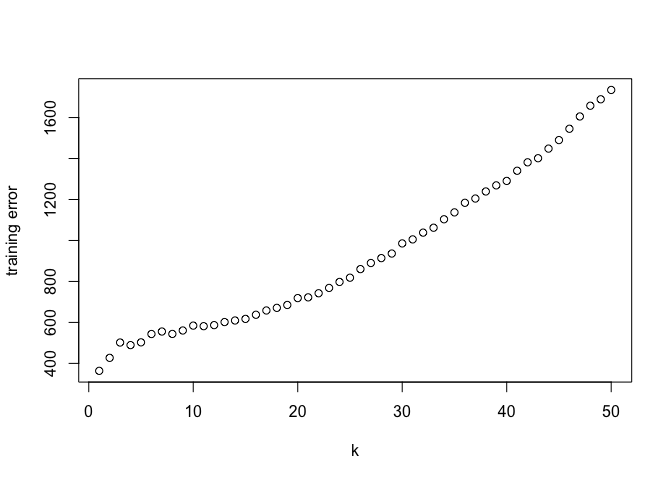
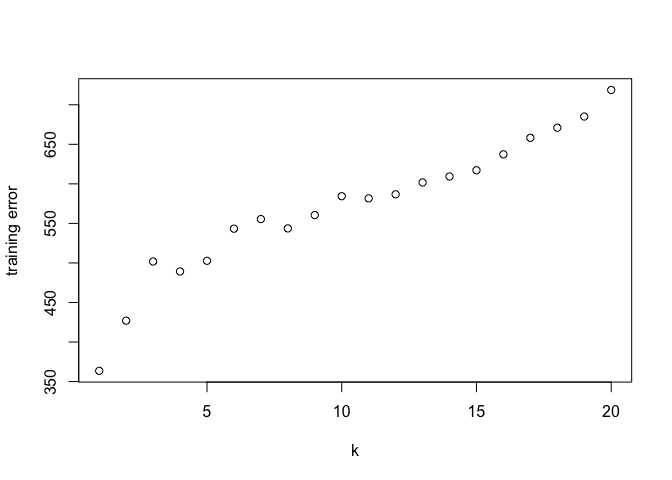
hw4

diff --git a/Homework_4/Homework_4.md b/Homework_4/Homework_4.md
@@ -156,19 +156,19 @@ loss_squared_error <- function(y, yhat)
 error <- function(y, yhat, loss=loss_squared_error)
   mean(loss(y, yhat))
 
-train_error <- rep(NA, 50)
-for (i in 1:50){
+train_error <- rep(NA, 20)
+for (i in 1:20){
   yhat_train <- nadaraya_watson(mcycle_train$accel, x_train, x_train, kernel_k_nearest_neighbors, knn = i)
   train_error[i] <- error(mcycle_train$accel, yhat_train, loss = loss_squared_error)
 }
 
-plot(seq(1:50),train_error, xlab = "k", ylab = "training error")
+plot(seq(1:20),train_error, xlab = "k", ylab = "training error")
 ```
 
 ![](Homework_4_files/figure-gfm/unnamed-chunk-11-1.png)<!-- -->
 
 ``` r
-y = mcycle_train$times
+y = mcycle_train$accel
 x <- x_train
 
 ## AIC
@@ -191,28 +191,24 @@ yhat <- nadaraya_watson(y, x, x,
   kernel_epanechnikov, lambda=5)
 
 ## view kernel (smoother) matrix
-matrix_image(attr(yhat, 'k'))
-```
+# matrix_image(attr(yhat, 'k'))
 
-![](Homework_4_files/figure-gfm/unnamed-chunk-12-1.png)<!-- -->
-
-``` r
 ## compute effective degrees of freedom
 edf <- effective_df(y, x, kernel_epanechnikov, lambda=5)
 aic(y, yhat, edf)
 ```
 
-    ## [1] 0.6409796
+    ## [1] 722.7298
 
 ``` r
 bic(y, yhat, edf)
 ```
 
-    ## [1] 0.8627817
+    ## [1] 722.9516
 
 ``` r
-aic_error <- rep(NA, 50)
-for(i in 1:50){
+aic_error <- rep(NA, 20)
+for(i in 1:20){
   yhat_train <- nadaraya_watson(mcycle_train$accel, x_train, x_train,kernel_k_nearest_neighbors, knn=i)
   edf <- effective_df(y, x, kernel_k_nearest_neighbors, knn=i)
   aic_error[i] <-  aic(y, yhat_train, edf)
@@ -220,23 +216,19 @@ for(i in 1:50){
 print(aic_error)
 ```
 
-    ##  [1] 5091.475 4271.287 4337.480 4012.961 3836.631 3928.073 3992.422 3991.655
-    ##  [9] 3956.766 3856.233 3757.818 3743.931 3721.539 3614.656 3530.737 3509.427
-    ## [17] 3487.257 3426.842 3365.450 3312.003 3217.977 3249.191 3156.968 3190.671
-    ## [25] 3156.539 3163.198 3184.374 3160.830 3154.303 3155.732 3136.818 3163.030
-    ## [33] 3231.683 3271.446 3297.095 3355.372 3382.827 3428.669 3467.208 3466.856
-    ## [41] 3507.944 3548.435 3596.819 3637.390 3663.047 3707.719 3779.969 3818.837
-    ## [49] 3857.116 3920.321
+    ##  [1] 365.0155 427.9374 502.4882 489.7461 503.1019 543.6581 555.7789 543.9533
+    ##  [9] 560.7425 584.5709 581.8404 586.9614 601.9214 609.4732 617.3089 637.4574
+    ## [17] 658.3733 671.1092 685.2458 718.8412
 
 ``` r
-plot(seq(1:50), aic_error, xlab = 'k',ylab = 'AIC')
+plot(seq(1:20), aic_error, xlab = 'k',ylab = 'AIC')
 ```
 
 ![](Homework_4_files/figure-gfm/unnamed-chunk-13-1.png)<!-- -->
 
 ``` r
-bic_error <- rep(NA, 50)
-for(i in 1:50){
+bic_error <- rep(NA, 20)
+for(i in 1:20){
   yhat_train <- nadaraya_watson(mcycle_train$accel, x_train, x_train,kernel_k_nearest_neighbors, knn=i)
   edf <- effective_df(y, x, kernel_k_nearest_neighbors, knn=i)
   bic_error[i] <- bic(y, yhat_train, edf)
@@ -244,30 +236,26 @@ for(i in 1:50){
 print(bic_error)
 ```
 
-    ##  [1] 5093.377 4272.499 4338.322 4013.605 3837.152 3928.507 3992.795 3991.981
-    ##  [9] 3957.056 3856.494 3758.054 3744.148 3721.740 3614.843 3530.910 3509.589
-    ## [17] 3487.411 3426.986 3365.587 3312.133 3218.101 3249.310 3157.082 3190.780
-    ## [25] 3156.643 3163.298 3184.471 3160.923 3154.393 3155.818 3136.902 3163.111
-    ## [33] 3231.762 3271.522 3297.169 3355.445 3382.897 3428.738 3467.275 3466.921
-    ## [41] 3508.008 3548.497 3596.879 3637.449 3663.105 3707.775 3780.024 3818.891
-    ## [49] 3857.170 3920.373
+    ##  [1] 366.9173 429.1488 503.3306 490.3909 503.6229 544.0923 556.1511 544.2790
+    ##  [9] 561.0320 584.8314 582.0772 587.1785 602.1218 609.6593 617.4826 637.6202
+    ## [17] 658.5265 671.2539 685.3829 718.9715
 
 ``` r
-plot(seq(1:50), bic_error, xlab = 'k',ylab = 'BIC')
+plot(seq(1:20), bic_error, xlab = 'k',ylab = 'BIC')
 ```
 
 ![](Homework_4_files/figure-gfm/unnamed-chunk-14-1.png)<!-- -->
 
 ``` r
-valid_error <- rep(NA, 50)
-for(i in 1:50){
+valid_error <- rep(NA, 20)
+for(i in 1:20){
   yhat_valid <- nadaraya_watson(mcycle_test$accel, x_valid, x_valid,kernel_k_nearest_neighbors, knn=i)
   valid_error[i] <-  error(mcycle_test$accel,yhat_valid)
 }
 
 #Error
 #training error
-plot(seq(1:50), valid_error, xlab = 'k', ylab = 'testing error')
+plot(seq(1:20), valid_error, xlab = 'k', ylab = 'testing error')
 ```
 
 ![](Homework_4_files/figure-gfm/unnamed-chunk-15-1.png)<!-- -->
@@ -366,9 +354,9 @@ cvknnreg <- function(kNN = 10, flds=mcycle_flds) {
   return(cverr)
 }
 
-## Compute 5-fold CV for kNN = 1:50
-cverrs <- sapply(1:50, cvknnreg)
-print(cverrs) ## rows are k-folds (1:5), cols are kNN (1:50)
+## Compute 5-fold CV for kNN = 1:20
+cverrs <- sapply(1:20, cvknnreg)
+print(cverrs) ## rows are k-folds (1:5), cols are kNN (1:20)
 ```
 
     ##           [,1]      [,2]     [,3]     [,4]     [,5]     [,6]     [,7]     [,8]
@@ -383,36 +371,12 @@ print(cverrs) ## rows are k-folds (1:5), cols are kNN (1:50)
     ## [3,] 647.5598 657.6890 734.9424 688.5695 682.5284 684.5491 729.4468 753.2387
     ## [4,] 797.8092 770.4313 815.1868 794.5416 789.8681 728.4384 717.4297 745.2519
     ## [5,] 498.3470 531.5351 500.5685 542.4821 532.3482 497.1585 529.9872 586.2051
-    ##         [,17]    [,18]    [,19]    [,20]    [,21]     [,22]     [,23]     [,24]
-    ## [1,] 354.1053 347.2541 384.5101 394.2038 441.4549  472.8756  498.2082  536.6689
-    ## [2,] 740.5859 799.7265 870.8813 912.4776 980.3243 1018.9970 1013.8565 1057.1217
-    ## [3,] 789.3431 759.4425 753.5538 778.6373 846.6821  857.7259  937.7607  942.8272
-    ## [4,] 737.8144 734.2257 743.0353 752.7634 783.9099  797.1429  803.8569  816.7285
-    ## [5,] 588.0262 601.9674 602.1801 618.6925 691.5039  705.0992  713.9096  833.4163
-    ##          [,25]     [,26]     [,27]     [,28]     [,29]     [,30]     [,31]
-    ## [1,]  537.5714  589.7705  575.4077  619.2707  658.6125  690.0895  684.0299
-    ## [2,] 1148.1801 1197.8311 1212.0159 1240.3222 1287.9730 1336.3738 1337.3155
-    ## [3,]  937.5117  935.4956  956.6576  952.6449 1053.1621 1106.1121 1110.2986
-    ## [4,]  808.2498  820.6746  826.2055  849.0976  864.5926  873.0770  881.2134
-    ## [5,]  868.2132  874.9318  904.0628  972.2048  983.3825 1005.0191 1009.8073
-    ##          [,32]     [,33]     [,34]     [,35]     [,36]     [,37]     [,38]
-    ## [1,]  711.6710  741.5186  756.7934  769.2446  846.4486  851.4993  855.1789
-    ## [2,] 1358.9550 1353.9986 1405.0661 1469.4552 1518.7744 1510.8004 1492.8121
-    ## [3,] 1125.5663 1138.0265 1150.2618 1189.9300 1202.4104 1232.5070 1255.7036
-    ## [4,]  950.0801  953.9638  999.2605 1013.6289 1051.1767 1096.3494 1128.5114
-    ## [5,] 1009.2723 1067.8505 1068.6263 1104.7766 1114.6448 1142.6521 1162.3306
-    ##          [,39]     [,40]     [,41]     [,42]     [,43]    [,44]    [,45]
-    ## [1,]  926.3261  941.2742  959.6788  965.4947  993.8559 1014.526 1067.428
-    ## [2,] 1576.1370 1630.4905 1666.1896 1676.6185 1724.6503 1772.390 1807.521
-    ## [3,] 1300.8959 1325.8375 1344.4075 1357.8994 1387.0314 1416.609 1465.042
-    ## [4,] 1133.5681 1141.7609 1165.9123 1193.7147 1201.1609 1200.754 1258.704
-    ## [5,] 1245.3851 1245.6822 1269.7360 1310.8467 1320.2260 1343.473 1413.952
-    ##         [,46]    [,47]    [,48]    [,49]    [,50]
-    ## [1,] 1125.491 1165.090 1185.334 1248.291 1314.505
-    ## [2,] 1841.461 1927.744 2004.886 2028.630 2076.517
-    ## [3,] 1512.596 1543.608 1588.178 1625.597 1658.267
-    ## [4,] 1289.186 1311.340 1354.635 1453.068 1506.978
-    ## [5,] 1423.691 1478.891 1510.323 1589.599 1647.327
+    ##         [,17]    [,18]    [,19]    [,20]
+    ## [1,] 354.1053 347.2541 384.5101 394.2038
+    ## [2,] 740.5859 799.7265 870.8813 912.4776
+    ## [3,] 789.3431 759.4425 753.5538 778.6373
+    ## [4,] 737.8144 734.2257 743.0353 752.7634
+    ## [5,] 588.0262 601.9674 602.1801 618.6925
 
 ``` r
 cverrs_mean <- apply(cverrs, 2, mean)
@@ -422,11 +386,11 @@ cverrs_sd   <- apply(cverrs, 2, sd)
 ## Plot the CV-estimated test error (average of the five estimates from each fold) as a function of the tuning parameter. Add vertical line segments to the figure (using the segments function in R) that represent one “standard error” of the CV-estimated test error (standard deviation of the five estimates from each fold).
 
 ``` r
-## Plot the results of 5-fold CV for kNN = 1:50
-plot(x=1:50, y=cverrs_mean, 
+## Plot the results of 5-fold CV for kNN = 1:20
+plot(x=1:20, y=cverrs_mean, 
      ylim=range(cverrs),
      xlab="'k' in kNN", ylab="CV Estimate of Test Error")
-segments(x0=1:50, x1=1:50,
+segments(x0=1:20, x1=1:20,
          y0=cverrs_mean-cverrs_sd,
          y1=cverrs_mean+cverrs_sd)
 best_idx <- which.min(cverrs_mean)
@@ -438,8 +402,7 @@ abline(h=cverrs_mean[best_idx] + cverrs_sd[best_idx], lty=3)
 
 ## Interpret the resulting figures and select a suitable value for the tuning parameter.
 
-**As we can see in the plot above, when k = 6, the model has the lowest
-test error. However, when you look at the cverrs_mean and cverrs_sd, we
-find that, when k = 4, it has the lowest standard deviation 134.9745,
-its test error is also low. As a result, I think k = 4 may be a suitable
-value for the tuning parameter.**
+\*\*As we can see in the plot above, when k = 6, the model has the
+lowest test error. However, if k = 6, the model is kind of complex.
+Since the test errors are close when k = 6 to k = 15. I may take a
+middle one say that the suitable value is k = 10.
